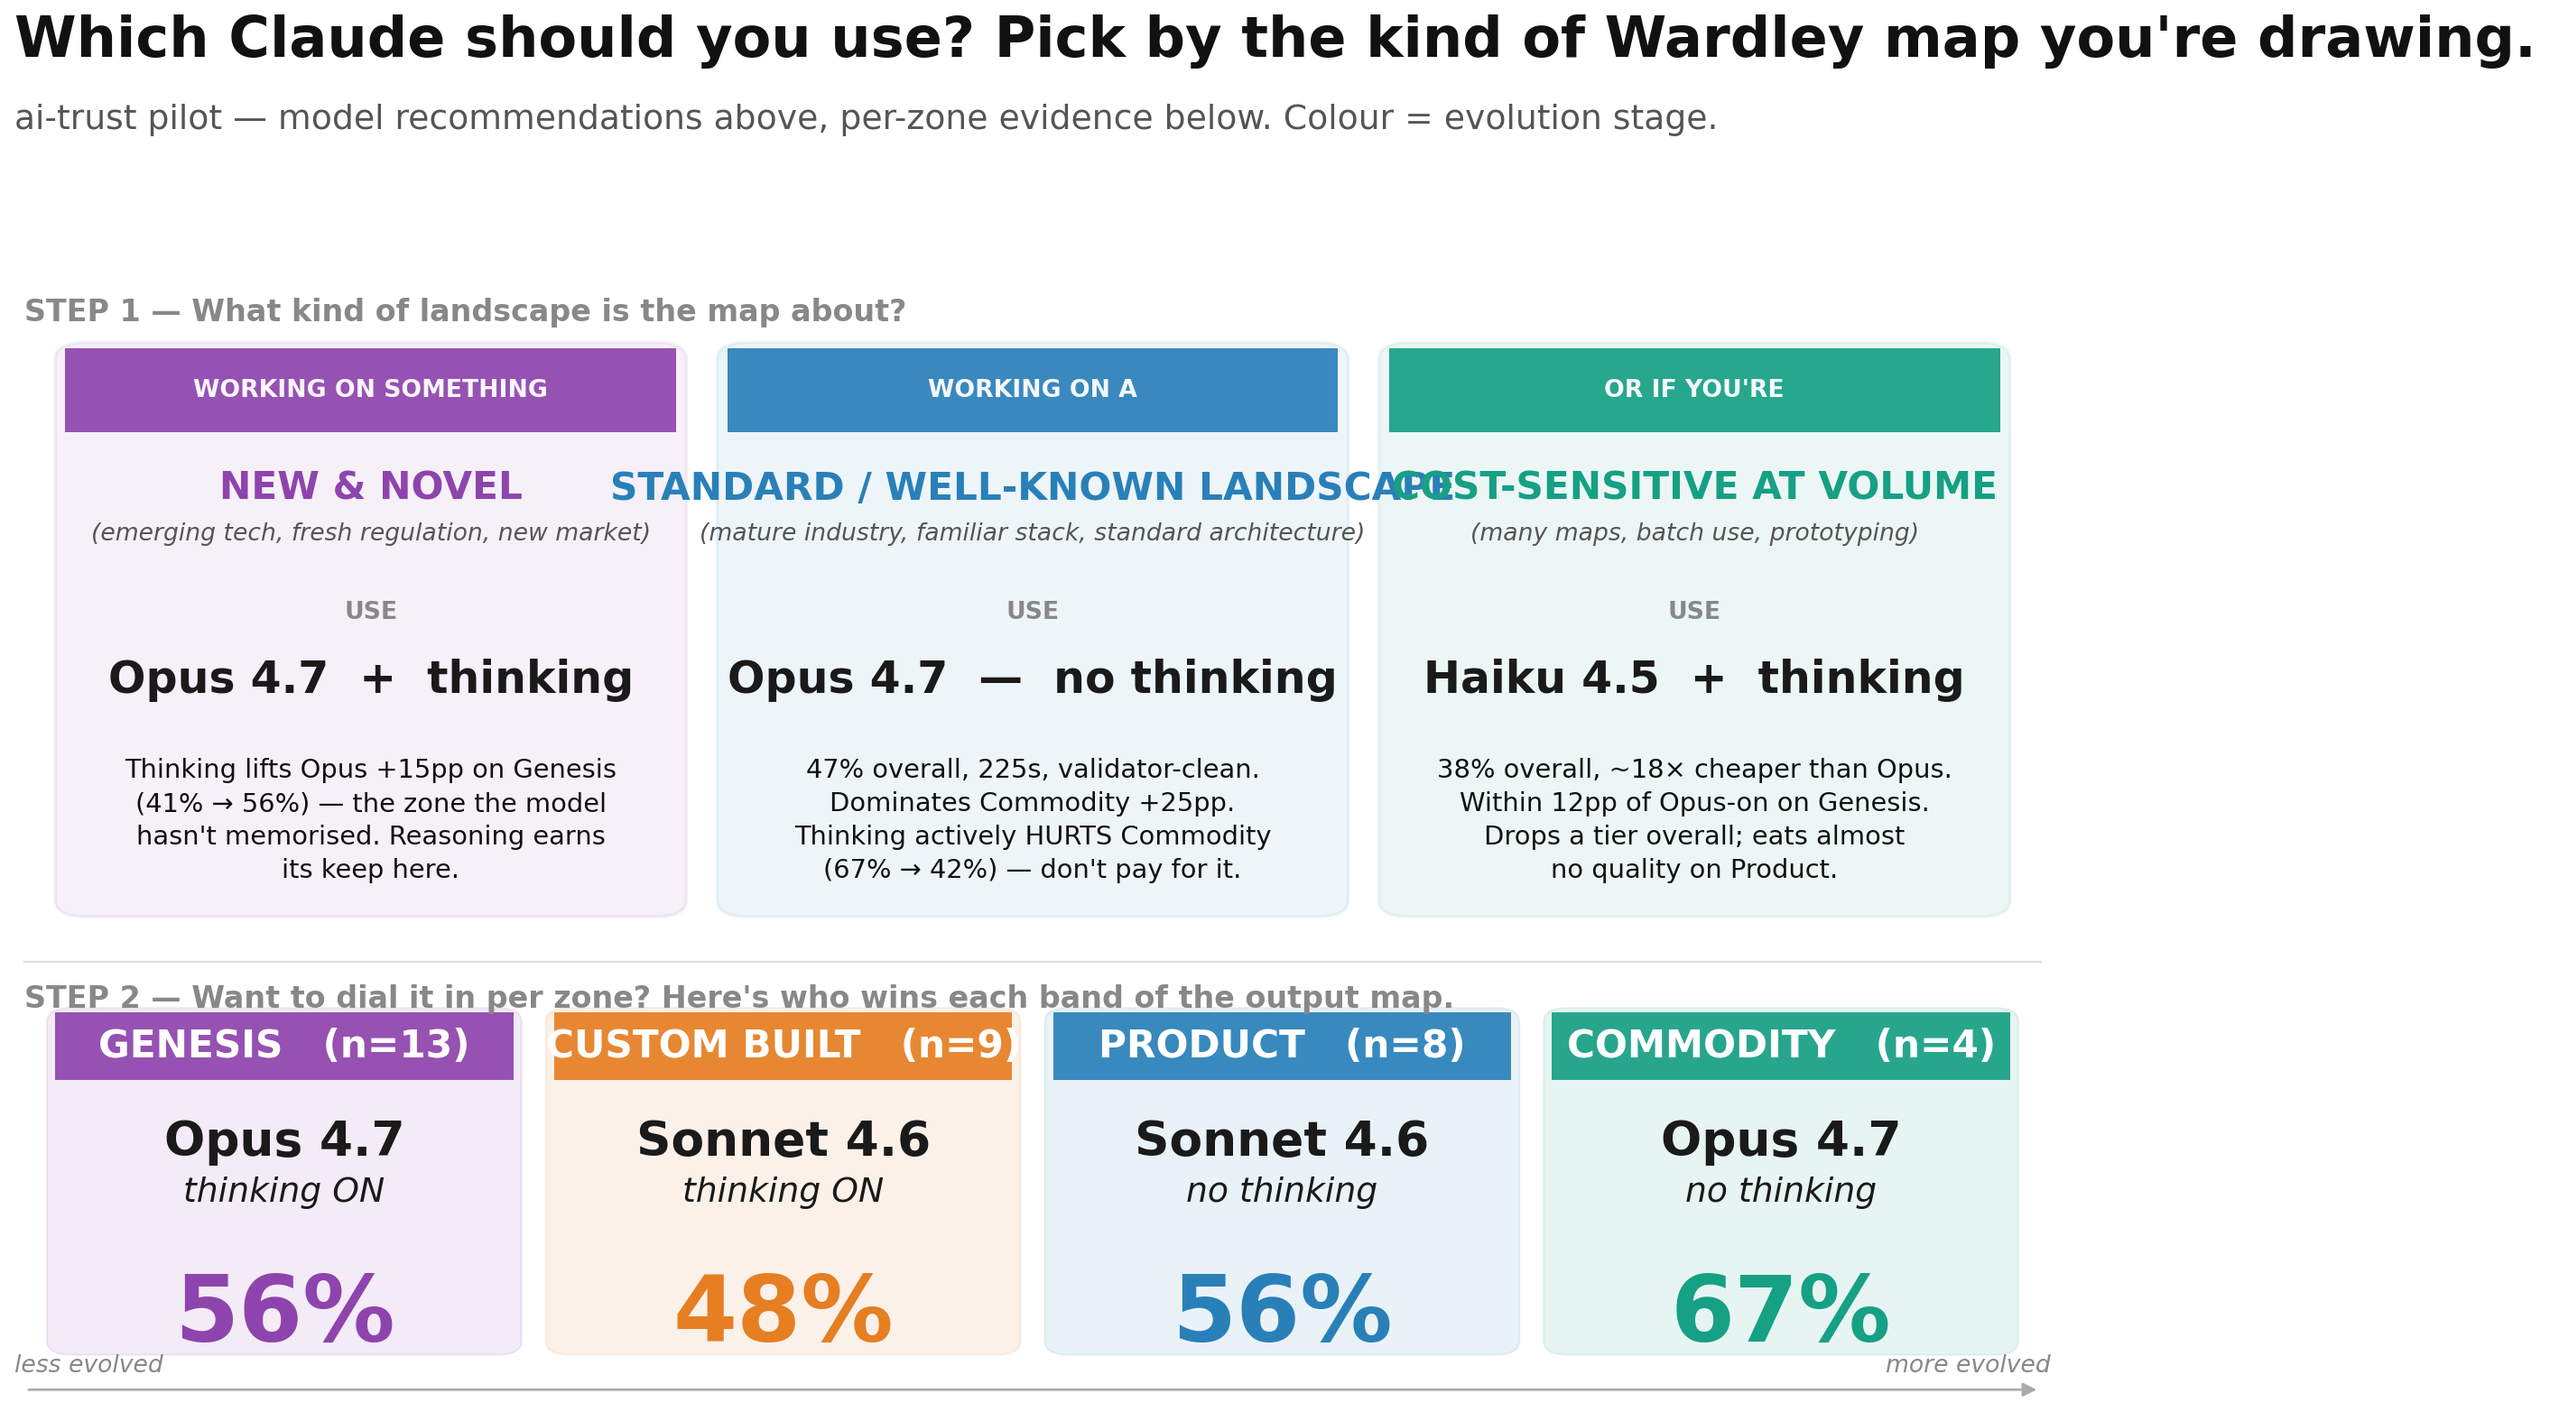
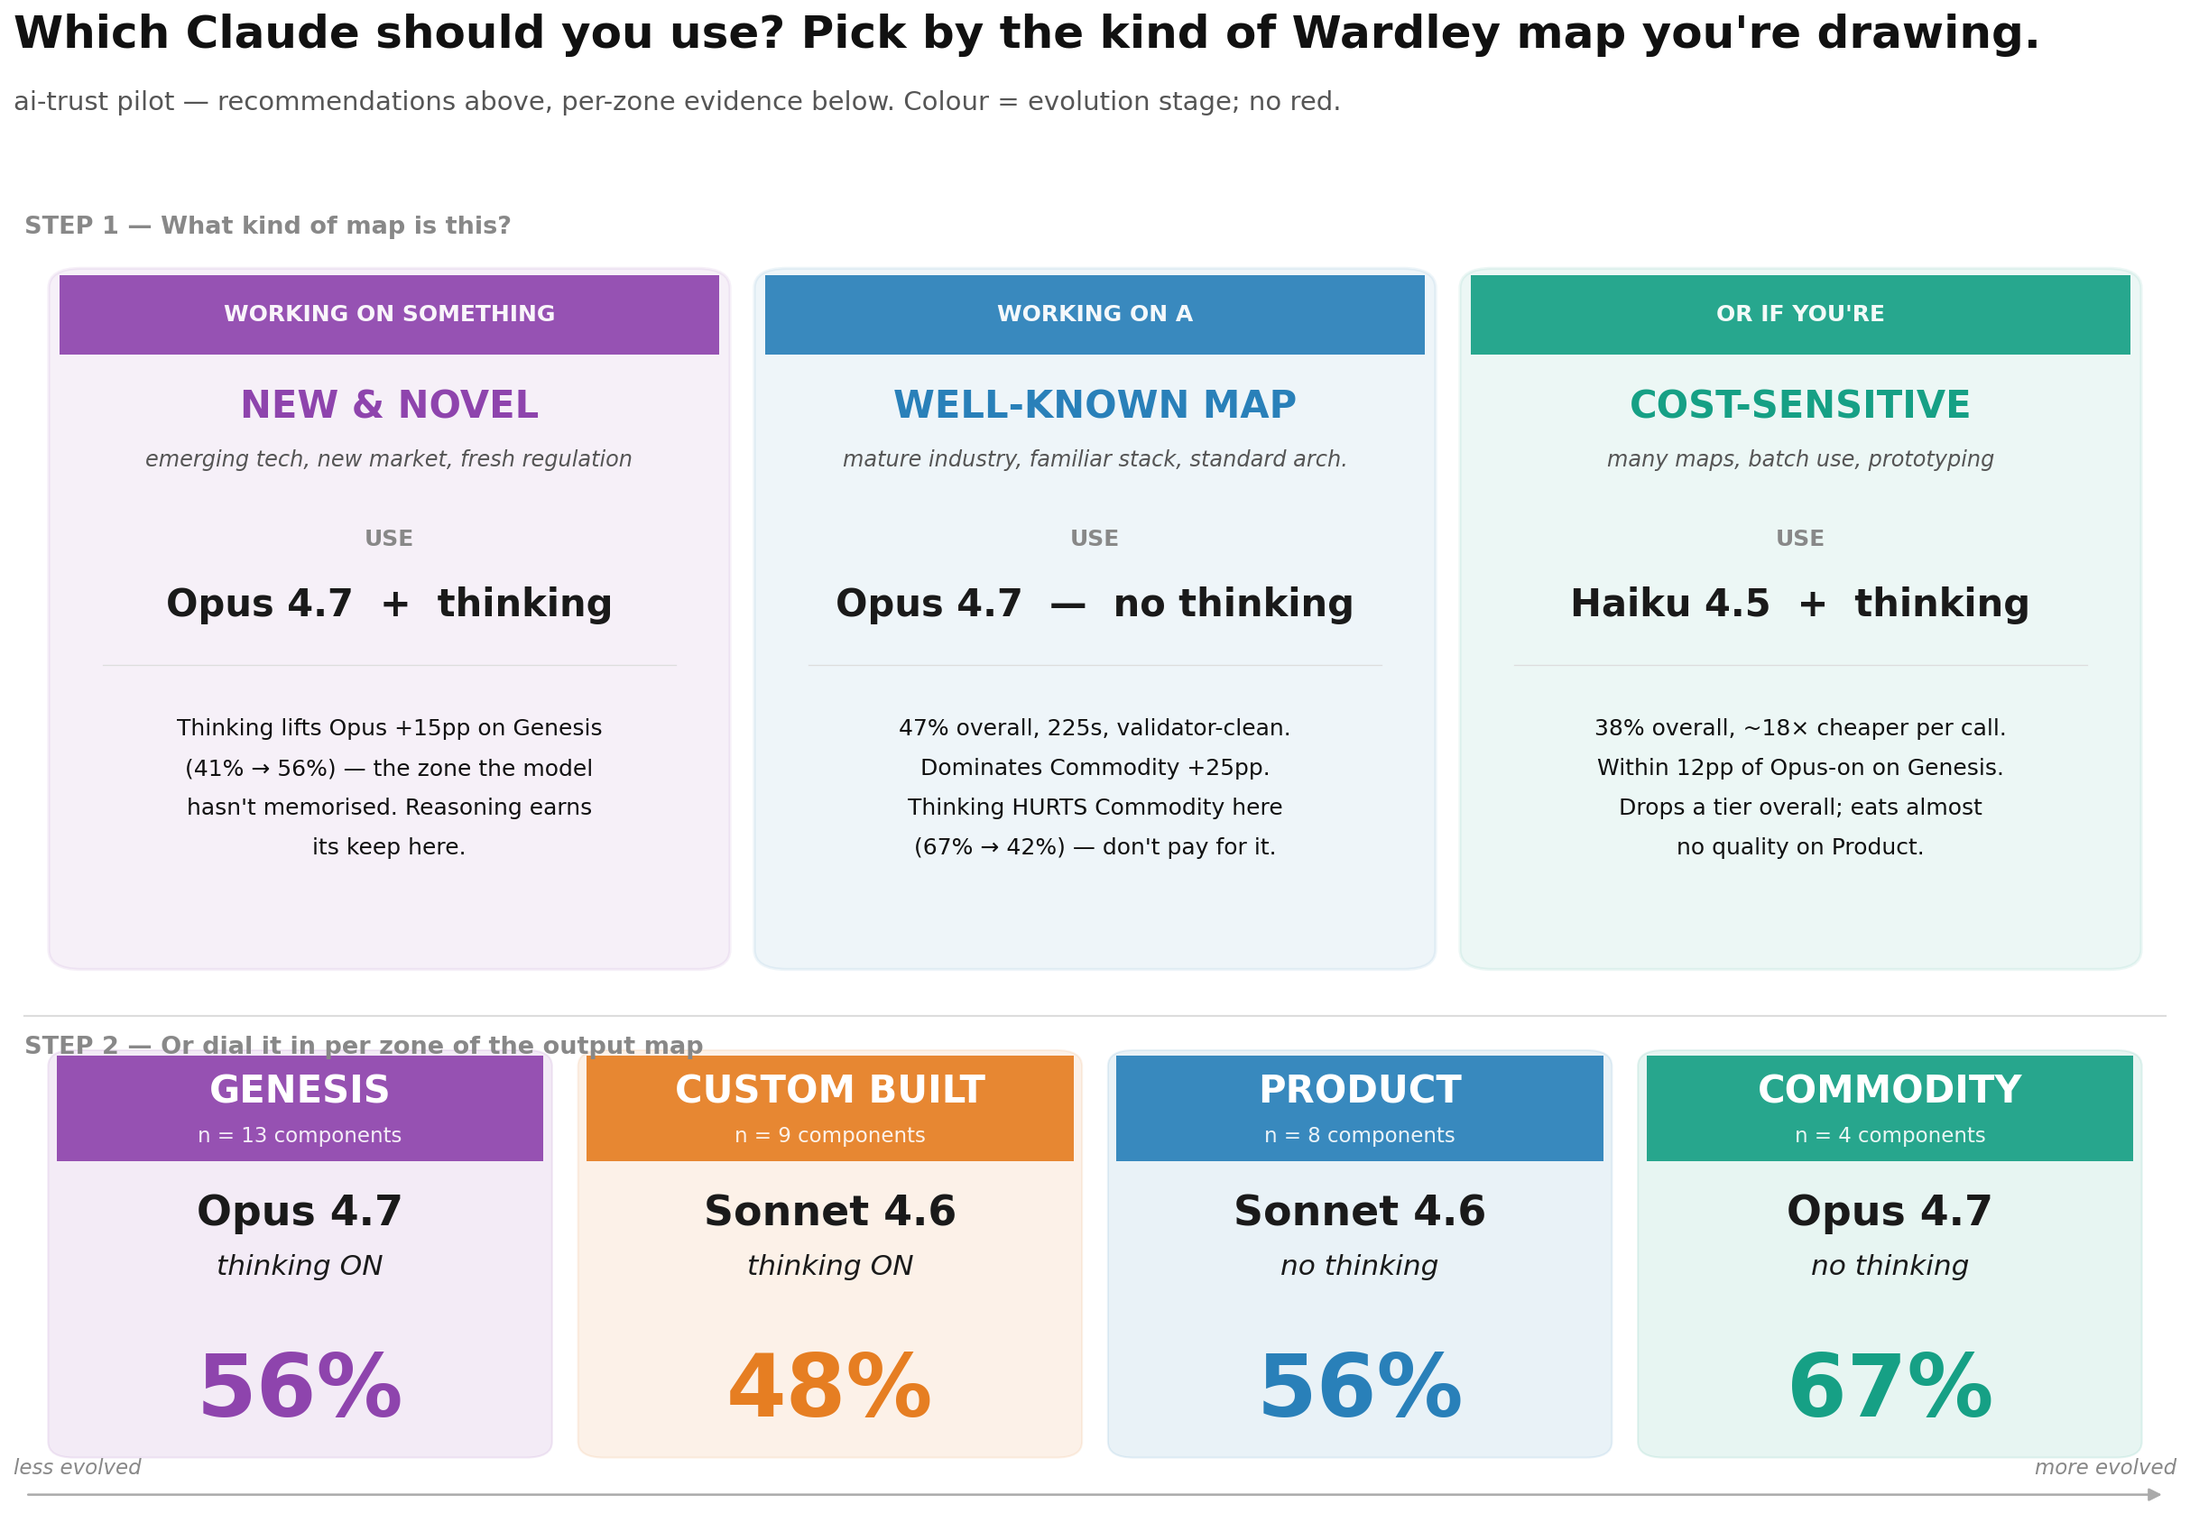
Hero: shorter card titles, more breathing room, no more overflow
Previous version had 'STANDARD / WELL-KNOWN LANDSCAPE' spilling into the next
card. Fixes:
- Card titles trimmed to ~14 chars: 'NEW & NOVEL', 'WELL-KNOWN MAP',
  'COST-SENSITIVE'. Explanatory wording moved into the subkind line.
- Card height bumped to 0.52; support text pre-wrapped to 4 short lines per
  card rather than relying on matplotlib's wrap.
- Zone tile band now stacks zone name + 'n=N' on two lines so neither part
  bumps neighbours.
- Figure size 17x11.5, dpi 150 — gives every text element real room.

diff --git a/skills/wardley-map-workspace/model-thinking-bench/make_hero.py b/skills/wardley-map-workspace/model-thinking-bench/make_hero.py
@@ -1,15 +1,9 @@
 #!/usr/bin/env python3
 """Hero PNG — which Claude to use, indexed by the kind of map you're drawing.
 
-Two stacked sections:
-  - Top: three decision rules, colour-coded by the *kind of work* they apply
-    to (red = new / Genesis, blue = standard / Product, green = utility / cost).
-  - Bottom: the per-zone empirical evidence the rules are built from, with
-    each zone shaded in its Wardley-convention colour.
-
-Colours encode evolution stage / strategic intent — not model identity.
-Model names appear in dark text within their zone's colour band so the eye
-links a recommendation to the band of the output map it applies to.
+Layout uses two stacked rows (top: decision cards, bottom: per-zone evidence)
+with hand-tuned spacing so titles never overflow card boundaries. Card sizes
+are picked so the widest title at the chosen fontsize still has margin.
 """
 from __future__ import annotations
 from pathlib import Path
@@ -20,51 +14,60 @@ from matplotlib.patches import FancyBboxPatch, Rectangle
 ROOT = Path(__file__).parent
 OUT = ROOT / "hero.png"
 
-# Zone palette — rare-to-mature spectrum:
-# Genesis = purple (rare/exotic/novel); Custom = orange (industrialising);
-# Product = blue (stable, well-understood); Commodity = green (utility, mature).
-# Red intentionally avoided — it reads as warning/error in most UIs.
-GENESIS_C  = "#8e44ad"
-CUSTOM_C   = "#e67e22"
-PRODUCT_C  = "#2980b9"
+# Zone palette — purple to green, no red.
+GENESIS_C   = "#8e44ad"
+CUSTOM_C    = "#e67e22"
+PRODUCT_C   = "#2980b9"
 COMMODITY_C = "#16a085"
 
 INK = "#111"
 SUBINK = "#555"
 DARK_ON_TINT = "#1a1a1a"
 
-# --- Top: three decision rules. Colour follows the zone the rule targets. ---
+# Three top-row decision rules. Titles kept short so they fit comfortably
+# inside the card width; the explanatory line lives in `subkind`.
 RULES = [
     {
-        "tag": "WORKING ON SOMETHING",
-        "kind": "NEW & NOVEL",
-        "subkind": "(emerging tech, fresh regulation, new market)",
-        "verdict": "Opus 4.7  +  thinking",
-        "color": GENESIS_C,
-        "support": "Thinking lifts Opus +15pp on Genesis\n(41% → 56%) — the zone the model\n"
-                   "hasn't memorised. Reasoning earns\nits keep here.",
+        "tag":      "WORKING ON SOMETHING",
+        "kind":     "NEW & NOVEL",
+        "subkind":  "emerging tech, new market, fresh regulation",
+        "verdict":  "Opus 4.7  +  thinking",
+        "color":    GENESIS_C,
+        "support": [
+            "Thinking lifts Opus +15pp on Genesis",
+            "(41% → 56%) — the zone the model",
+            "hasn't memorised. Reasoning earns",
+            "its keep here.",
+        ],
     },
     {
-        "tag": "WORKING ON A",
-        "kind": "STANDARD / WELL-KNOWN LANDSCAPE",
-        "subkind": "(mature industry, familiar stack, standard architecture)",
-        "verdict": "Opus 4.7  —  no thinking",
-        "color": PRODUCT_C,
-        "support": "47% overall, 225s, validator-clean.\nDominates Commodity +25pp.\n"
-                   "Thinking actively HURTS Commodity\n(67% → 42%) — don't pay for it.",
+        "tag":      "WORKING ON A",
+        "kind":     "WELL-KNOWN MAP",
+        "subkind":  "mature industry, familiar stack, standard arch.",
+        "verdict":  "Opus 4.7  —  no thinking",
+        "color":    PRODUCT_C,
+        "support": [
+            "47% overall, 225s, validator-clean.",
+            "Dominates Commodity +25pp.",
+            "Thinking HURTS Commodity here",
+            "(67% → 42%) — don't pay for it.",
+        ],
     },
     {
-        "tag": "OR IF YOU'RE",
-        "kind": "COST-SENSITIVE AT VOLUME",
-        "subkind": "(many maps, batch use, prototyping)",
-        "verdict": "Haiku 4.5  +  thinking",
-        "color": COMMODITY_C,
-        "support": "38% overall, ~18× cheaper than Opus.\nWithin 12pp of Opus-on on Genesis.\n"
-                   "Drops a tier overall; eats almost\nno quality on Product.",
+        "tag":      "OR IF YOU'RE",
+        "kind":     "COST-SENSITIVE",
+        "subkind":  "many maps, batch use, prototyping",
+        "verdict":  "Haiku 4.5  +  thinking",
+        "color":    COMMODITY_C,
+        "support": [
+            "38% overall, ~18× cheaper per call.",
+            "Within 12pp of Opus-on on Genesis.",
+            "Drops a tier overall; eats almost",
+            "no quality on Product.",
+        ],
     },
 ]
 
-# --- Bottom: per-zone evidence. Colour = zone, not model. ----------------
 ZONES = [
     ("Genesis",      13, "Opus 4.7",   "thinking ON",  56, GENESIS_C),
     ("Custom Built",  9, "Sonnet 4.6", "thinking ON",  48, CUSTOM_C),
@@ -75,35 +78,56 @@ ZONES = [
 
 def draw_rule_card(ax, x, y, w, h, rule):
     color = rule["color"]
+
+    # Card body
     body = FancyBboxPatch(
         (x, y), w, h,
         boxstyle="round,pad=0.005,rounding_size=0.015",
         linewidth=1.6, edgecolor=color, facecolor=color, alpha=0.08,
     )
     ax.add_patch(body)
-    band = Rectangle((x, y + h - 0.075), w, 0.075, facecolor=color, alpha=0.92)
+
+    # Top colour band
+    band_h = 0.060
+    band = Rectangle((x, y + h - band_h), w, band_h, facecolor=color, alpha=0.92)
     ax.add_patch(band)
+
     cx = x + w / 2
-    ax.text(cx, y + h - 0.038, rule["tag"],
+    # Tag inside band
+    ax.text(cx, y + h - band_h / 2, rule["tag"],
             fontsize=12, fontweight="bold", color="white",
             ha="center", va="center", alpha=0.95)
 
-    ax.text(cx, y + h - 0.125, rule["kind"],
-            fontsize=19, fontweight="bold", color=color,
+    # Kind name — the headline phrase, sized to fit the card
+    ax.text(cx, y + h - band_h - 0.040, rule["kind"],
+            fontsize=20, fontweight="bold", color=color,
             ha="center", va="center")
-    ax.text(cx, y + h - 0.165, rule["subkind"],
-            fontsize=12, color=SUBINK, ha="center", va="center", style="italic")
 
-    ax.text(cx, y + h - 0.235, "USE",
+    # Subkind line
+    ax.text(cx, y + h - band_h - 0.080, rule["subkind"],
+            fontsize=11.5, color=SUBINK, ha="center", va="center", style="italic")
+
+    # "USE" label
+    ax.text(cx, y + h - band_h - 0.140, "USE",
             fontsize=12, fontweight="bold", color="#888",
             ha="center", va="center")
-    ax.text(cx, y + h - 0.295, rule["verdict"],
-            fontsize=22, fontweight="bold", color=DARK_ON_TINT,
+
+    # Verdict — model + thinking
+    ax.text(cx, y + h - band_h - 0.190, rule["verdict"],
+            fontsize=20, fontweight="bold", color=DARK_ON_TINT,
             ha="center", va="center")
 
-    ax.text(cx, y + 0.025, rule["support"],
-            fontsize=13, color=INK, ha="center", va="bottom",
-            linespacing=1.4)
+    # Divider before support text
+    ax.plot([x + 0.02, x + w - 0.02],
+            [y + h - band_h - 0.235, y + h - band_h - 0.235],
+            color="#ddd", lw=0.6)
+
+    # Support text — pre-wrapped to 4 short lines per card
+    line_height = 0.030
+    support_top = y + h - band_h - 0.275
+    for i, line in enumerate(rule["support"]):
+        ax.text(cx, support_top - i * line_height, line,
+                fontsize=12, color=INK, ha="center", va="top")
 
 
 def draw_zone_pill(ax, x, y, w, h, zone, n, model, state, cov, color):
@@ -113,62 +137,74 @@ def draw_zone_pill(ax, x, y, w, h, zone, n, model, state, cov, color):
         linewidth=1.0, edgecolor=color, facecolor=color, alpha=0.10,
     )
     ax.add_patch(body)
-    band = Rectangle((x, y + h - 0.060), w, 0.060, facecolor=color, alpha=0.92)
+
+    # Top band — zone name on one line, n=N on a second so neither overflows
+    band_h = 0.080
+    band = Rectangle((x, y + h - band_h), w, band_h, facecolor=color, alpha=0.92)
     ax.add_patch(band)
     cx = x + w / 2
-    ax.text(cx, y + h - 0.030, f"{zone.upper()}   (n={n})",
-            fontsize=19, fontweight="bold", color="white", ha="center", va="center")
+    ax.text(cx, y + h - 0.028, zone.upper(),
+            fontsize=20, fontweight="bold", color="white", ha="center", va="center")
+    ax.text(cx, y + h - 0.061, f"n = {n} components",
+            fontsize=11, color="white", alpha=0.9, ha="center", va="center")
 
-    ax.text(cx, y + h - 0.115, model,
-            fontsize=24, fontweight="bold", color=DARK_ON_TINT,
+    # Model name + state
+    ax.text(cx, y + h - band_h - 0.040, model,
+            fontsize=22, fontweight="bold", color=DARK_ON_TINT,
             ha="center", va="center")
-    ax.text(cx, y + h - 0.160, state,
-            fontsize=17, color=DARK_ON_TINT, ha="center", va="center", style="italic")
-    ax.text(cx, y + 0.030, f"{cov}%",
+    ax.text(cx, y + h - band_h - 0.080, state,
+            fontsize=15, color=DARK_ON_TINT, ha="center", va="center", style="italic")
+
+    # Coverage number
+    ax.text(cx, y + 0.045, f"{cov}%",
             fontsize=46, fontweight="bold", color=color,
             ha="center", va="center")
 
 
 def main():
-    fig = plt.figure(figsize=(15.0, 10.0), dpi=160)
+    # Figure sized to give cards real breathing room
+    fig = plt.figure(figsize=(17.0, 11.5), dpi=150)
     fig.patch.set_facecolor("white")
-    ax = fig.add_axes([0.03, 0.02, 0.94, 0.78])
+
+    # The main axes occupy most of the figure; title sits above.
+    ax = fig.add_axes([0.03, 0.02, 0.94, 0.85])
     ax.set_xlim(0, 1)
     ax.set_ylim(0, 1)
     ax.axis("off")
 
-    fig.text(0.03, 0.955,
+    # Title + subtitle
+    fig.text(0.03, 0.965,
              "Which Claude should you use? Pick by the kind of Wardley map you're drawing.",
-             fontsize=28, fontweight="bold", color=INK)
-    fig.text(0.03, 0.905,
-             "ai-trust pilot — model recommendations above, per-zone evidence below. "
-             "Colour = evolution stage.",
-             fontsize=17, color=SUBINK)
+             fontsize=24, fontweight="bold", color=INK)
+    fig.text(0.03, 0.925,
+             "ai-trust pilot — recommendations above, per-zone evidence below. "
+             "Colour = evolution stage; no red.",
+             fontsize=14, color=SUBINK)
 
-    # Step labels
+    # ===== STEP 1: decision rule cards =====
     ax.text(0.005, 0.985,
-            "STEP 1 — What kind of landscape is the map about?",
-            fontsize=15, fontweight="bold", color="#888",
+            "STEP 1 — What kind of map is this?",
+            fontsize=13, fontweight="bold", color="#888",
             ha="left", va="top", transform=ax.transAxes)
 
-    # ----- Top: three decision rules -----
-    n = len(RULES)
-    card_w = 0.30
-    card_h = 0.50
-    gap = (1.0 - n * card_w) / (n + 1)
-    y_top_card = 0.94 - card_h
+    n_cards = len(RULES)
+    card_w = 0.305
+    gap = (1.0 - n_cards * card_w) / (n_cards + 1)
+    card_h = 0.52
+    card_y = 0.42
     for i, rule in enumerate(RULES):
         x = gap + i * (card_w + gap)
-        draw_rule_card(ax, x, y_top_card, card_w, card_h, rule)
+        draw_rule_card(ax, x, card_y, card_w, card_h, rule)
 
-    # ----- Divider -----
-    div_y = 0.395
+    # Divider between sections
+    div_y = 0.38
     ax.plot([0.005, 0.995], [div_y, div_y], color="#ddd", lw=1.0)
-    ax.text(0.005, div_y - 0.02,
-            "STEP 2 — Want to dial it in per zone? Here's who wins each band of the output map.",
-            fontsize=15, fontweight="bold", color="#888", ha="left", va="top")
 
-    # ----- Bottom: per-zone evidence strip -----
+    # ===== STEP 2: per-zone evidence strip =====
+    ax.text(0.005, div_y - 0.015,
+            "STEP 2 — Or dial it in per zone of the output map",
+            fontsize=13, fontweight="bold", color="#888", ha="left", va="top")
+
     nz = len(ZONES)
     z_w = 0.225
     z_gap = (1.0 - nz * z_w) / (nz + 1)
@@ -178,14 +214,14 @@ def main():
         x = z_gap + i * (z_w + z_gap)
         draw_zone_pill(ax, x, z_y, z_w, z_h, zone, count, model, state, cov, color)
 
-    # Evolution-axis cue
-    arrow_y = 0.015
+    # Evolution arrow
+    arrow_y = 0.018
     ax.annotate("", xy=(0.995, arrow_y), xytext=(0.005, arrow_y),
                 arrowprops=dict(arrowstyle="-|>", color="#aaa",
                                 lw=1.2, mutation_scale=14))
-    ax.text(0.0, arrow_y + 0.011, "less evolved", fontsize=12,
+    ax.text(0.0, arrow_y + 0.012, "less evolved", fontsize=11,
             color="#888", ha="left", va="bottom", style="italic")
-    ax.text(1.0, arrow_y + 0.011, "more evolved", fontsize=12,
+    ax.text(1.0, arrow_y + 0.012, "more evolved", fontsize=11,
             color="#888", ha="right", va="bottom", style="italic")
 
     plt.savefig(OUT, bbox_inches="tight", facecolor="white")
